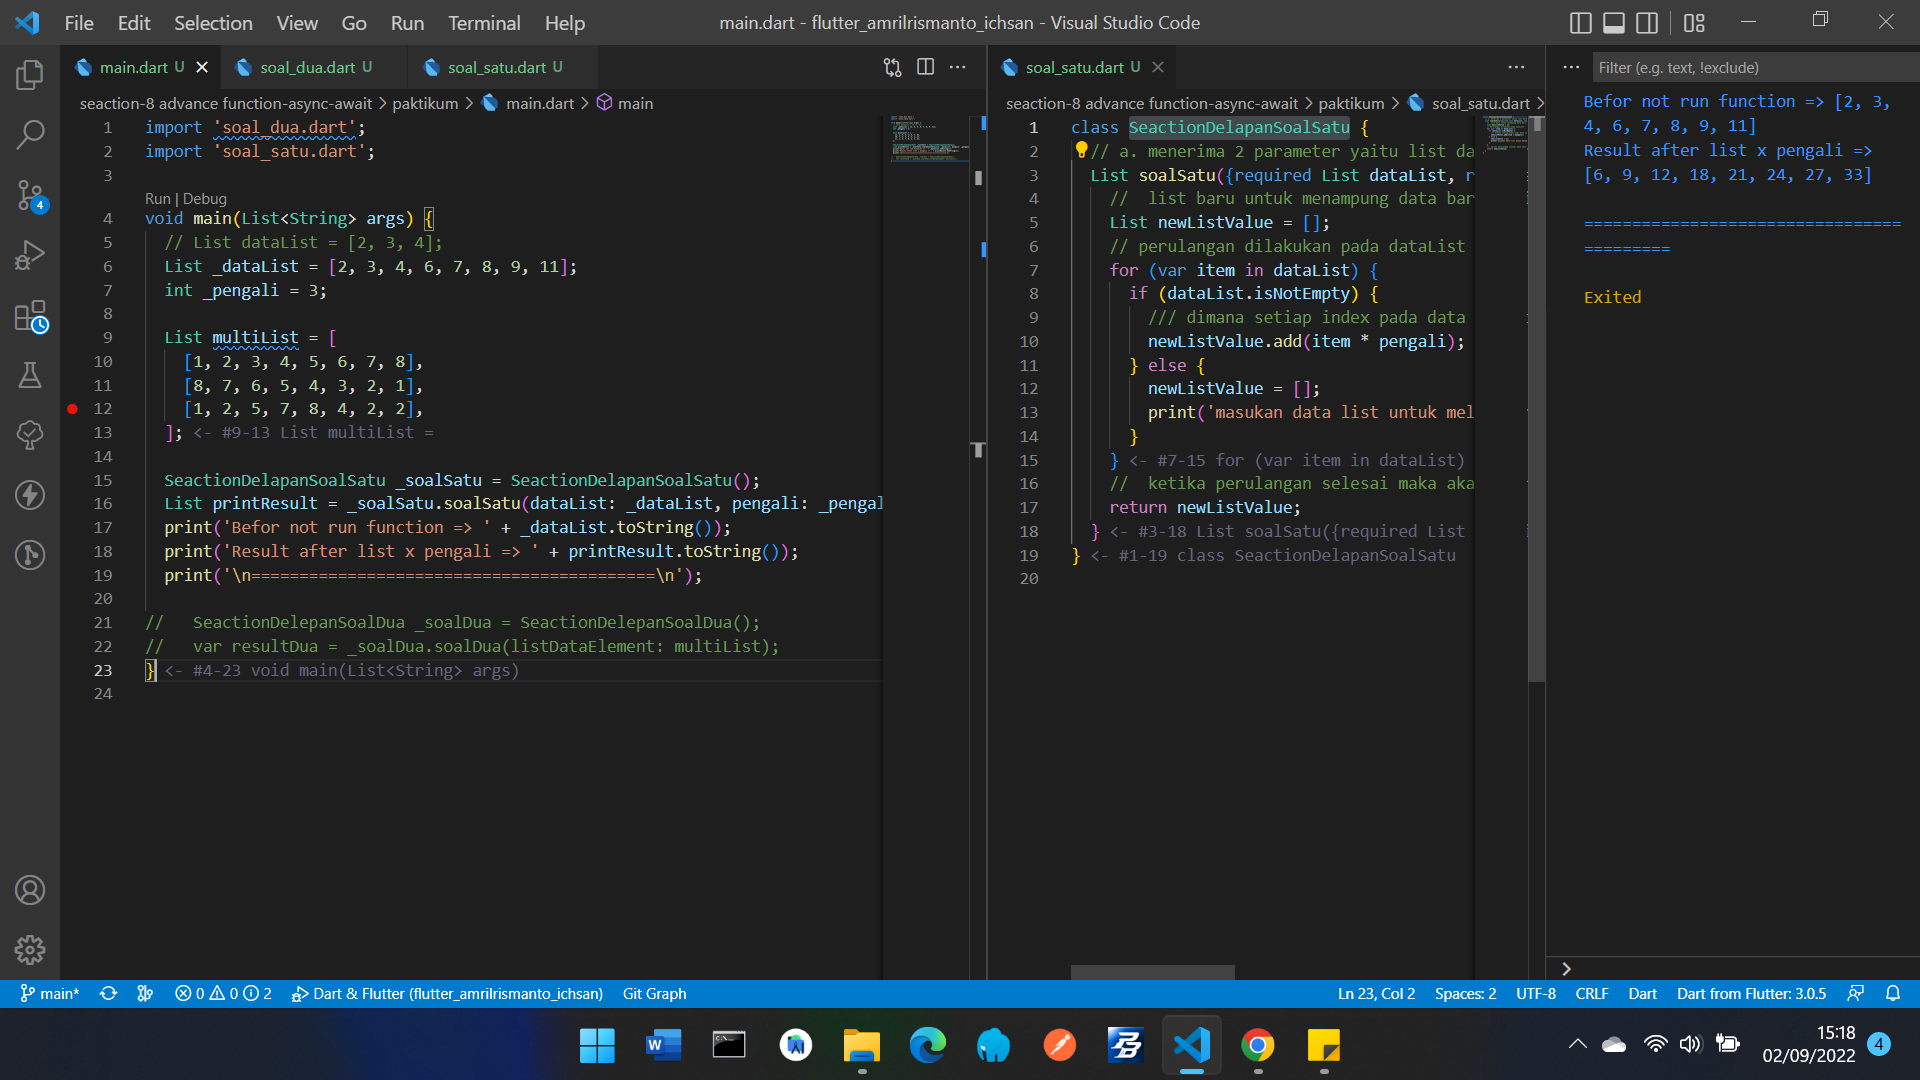
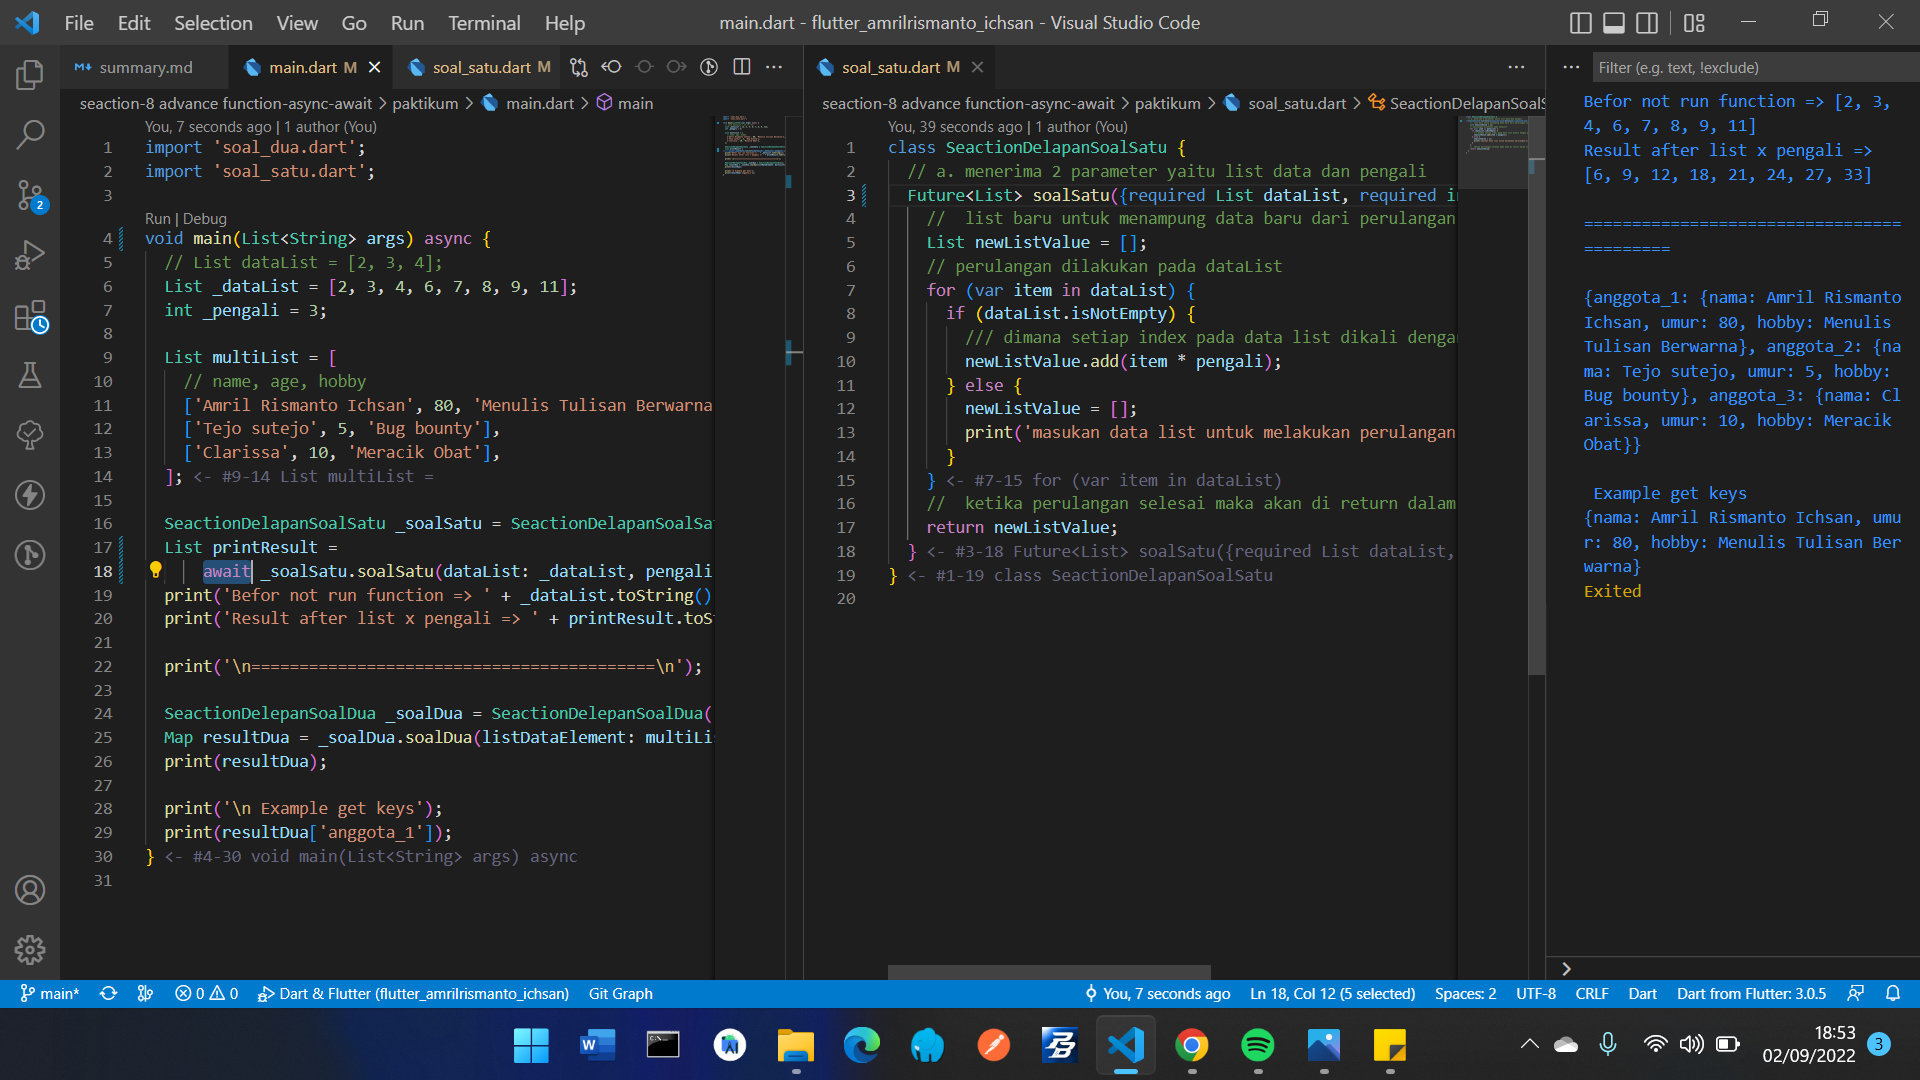
perbaikan soal 1

diff --git a/seaction-8 advance function-async-await/paktikum/main.dart b/seaction-8 advance function-async-await/paktikum/main.dart
@@ -1,7 +1,7 @@
 import 'soal_dua.dart';
 import 'soal_satu.dart';
 
-void main(List<String> args) {
+void main(List<String> args) async {
   // List dataList = [2, 3, 4];
   List _dataList = [2, 3, 4, 6, 7, 8, 9, 11];
   int _pengali = 3;
@@ -14,7 +14,8 @@ void main(List<String> args) {
   ];
 
   SeactionDelapanSoalSatu _soalSatu = SeactionDelapanSoalSatu();
-  List printResult = _soalSatu.soalSatu(dataList: _dataList, pengali: _pengali);
+  List printResult =
+      await _soalSatu.soalSatu(dataList: _dataList, pengali: _pengali);
   print('Befor not run function => ' + _dataList.toString());
   print('Result after list x pengali => ' + printResult.toString());
 

diff --git a/seaction-8 advance function-async-await/paktikum/soal_satu.dart b/seaction-8 advance function-async-await/paktikum/soal_satu.dart
@@ -1,6 +1,6 @@
 class SeactionDelapanSoalSatu {
   // a. menerima 2 parameter yaitu list data dan pengali
-  List soalSatu({required List dataList, required int pengali}) {
+  Future<List> soalSatu({required List dataList, required int pengali}) async {
     //  list baru untuk menampung data baru dari perulangan list lama yang dikali pengali
     List newListValue = [];
     // perulangan dilakukan pada dataList
